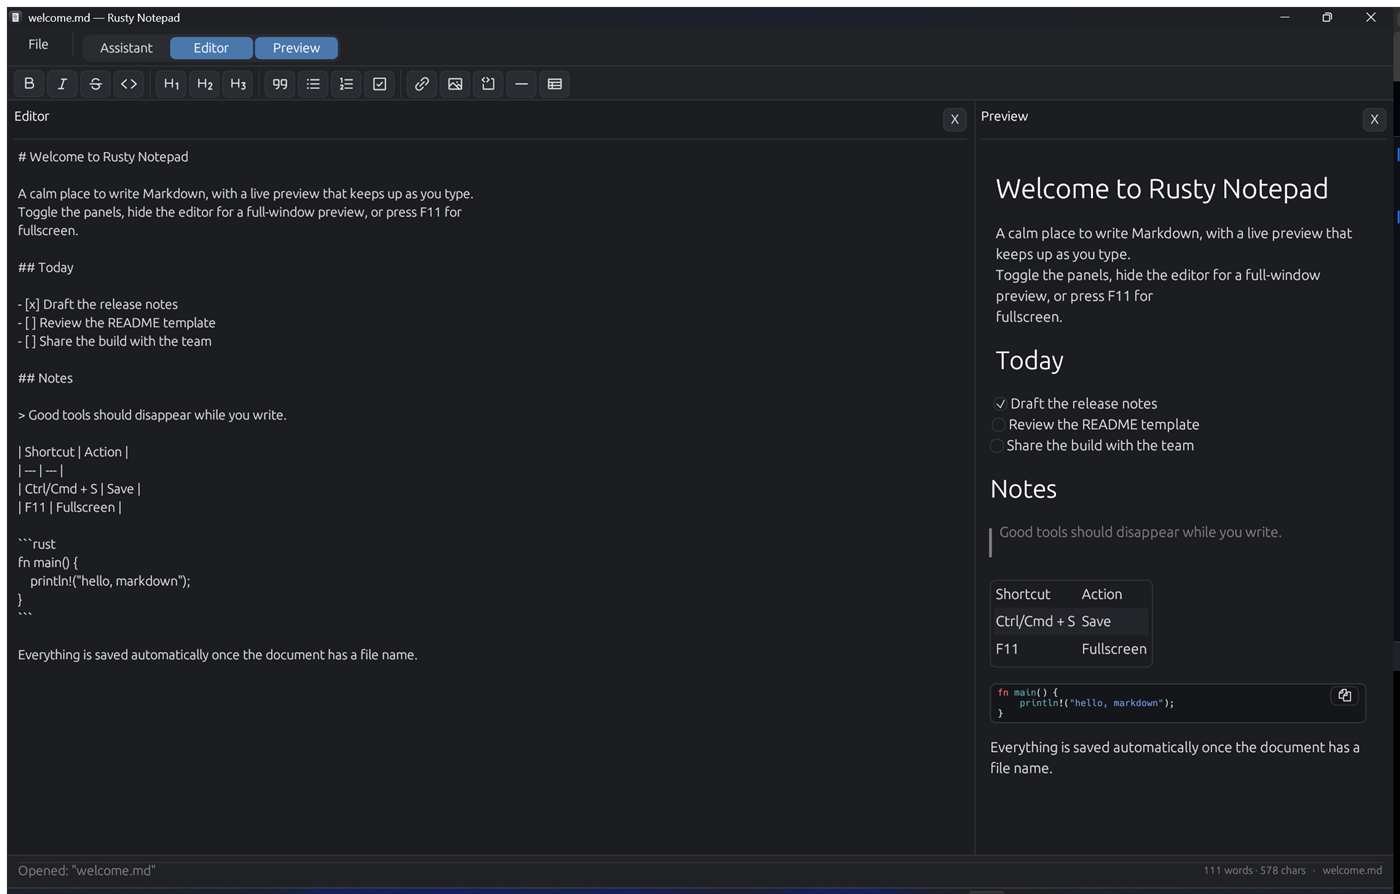
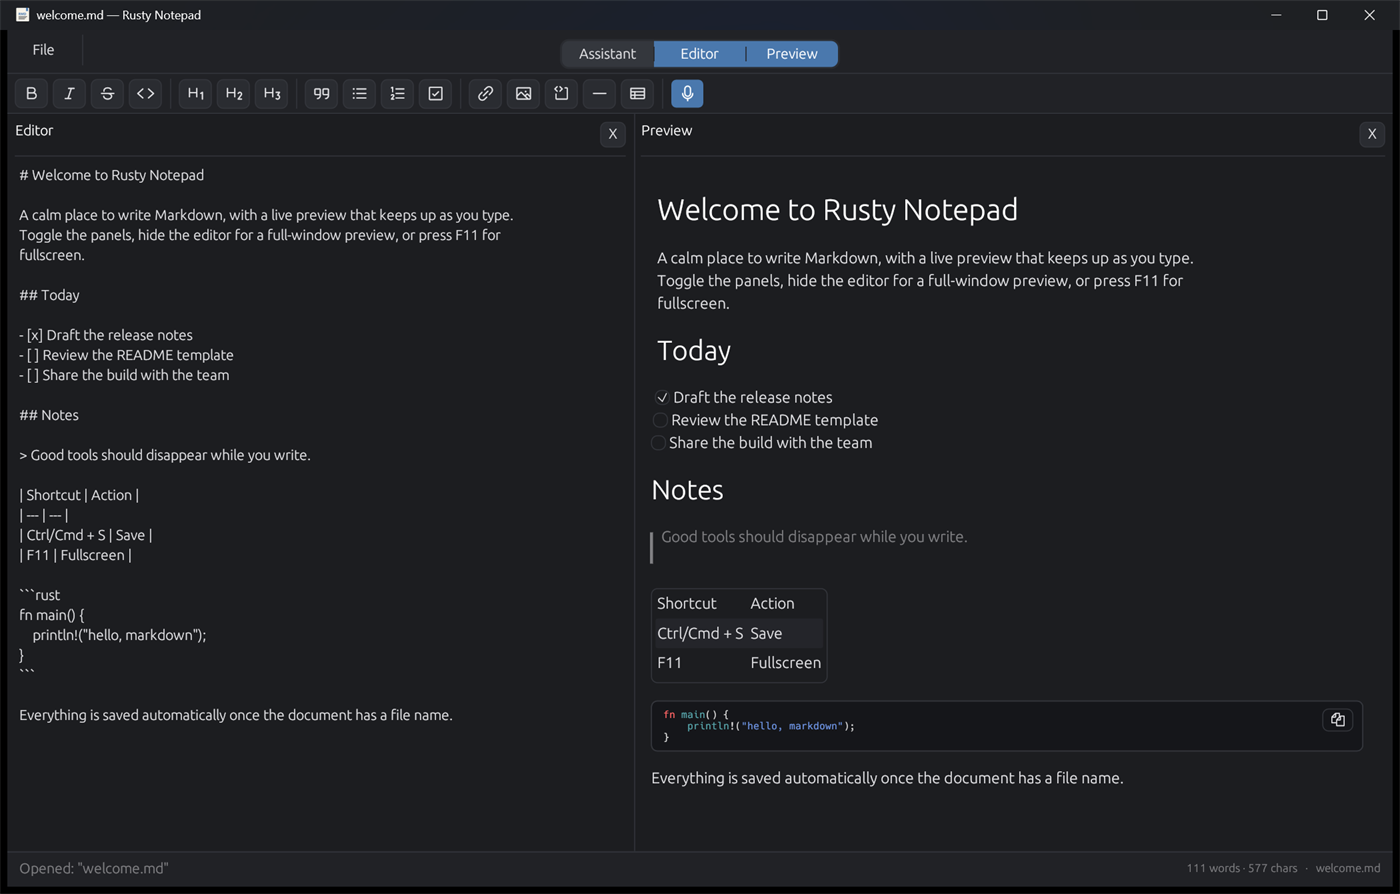
Refresh the README screenshot and release v0.2.0
- New screenshot showing the current header, toolbar and footer

- Bump the package and packager versions to 0.2.0

diff --git a/README.md b/README.md
@@ -153,7 +153,7 @@ cargo install cargo-packager --locked
 cargo packager --release   # installer for the host OS
 ```
 
-Pushing a `v*` tag (for example `v0.1.0`) runs
+Pushing a `v*` tag (for example `v0.2.0`) runs
 `.github/workflows/release.yml`, which builds Windows, macOS, and Linux
 installers on native runners and attaches them to a GitHub release.
 
